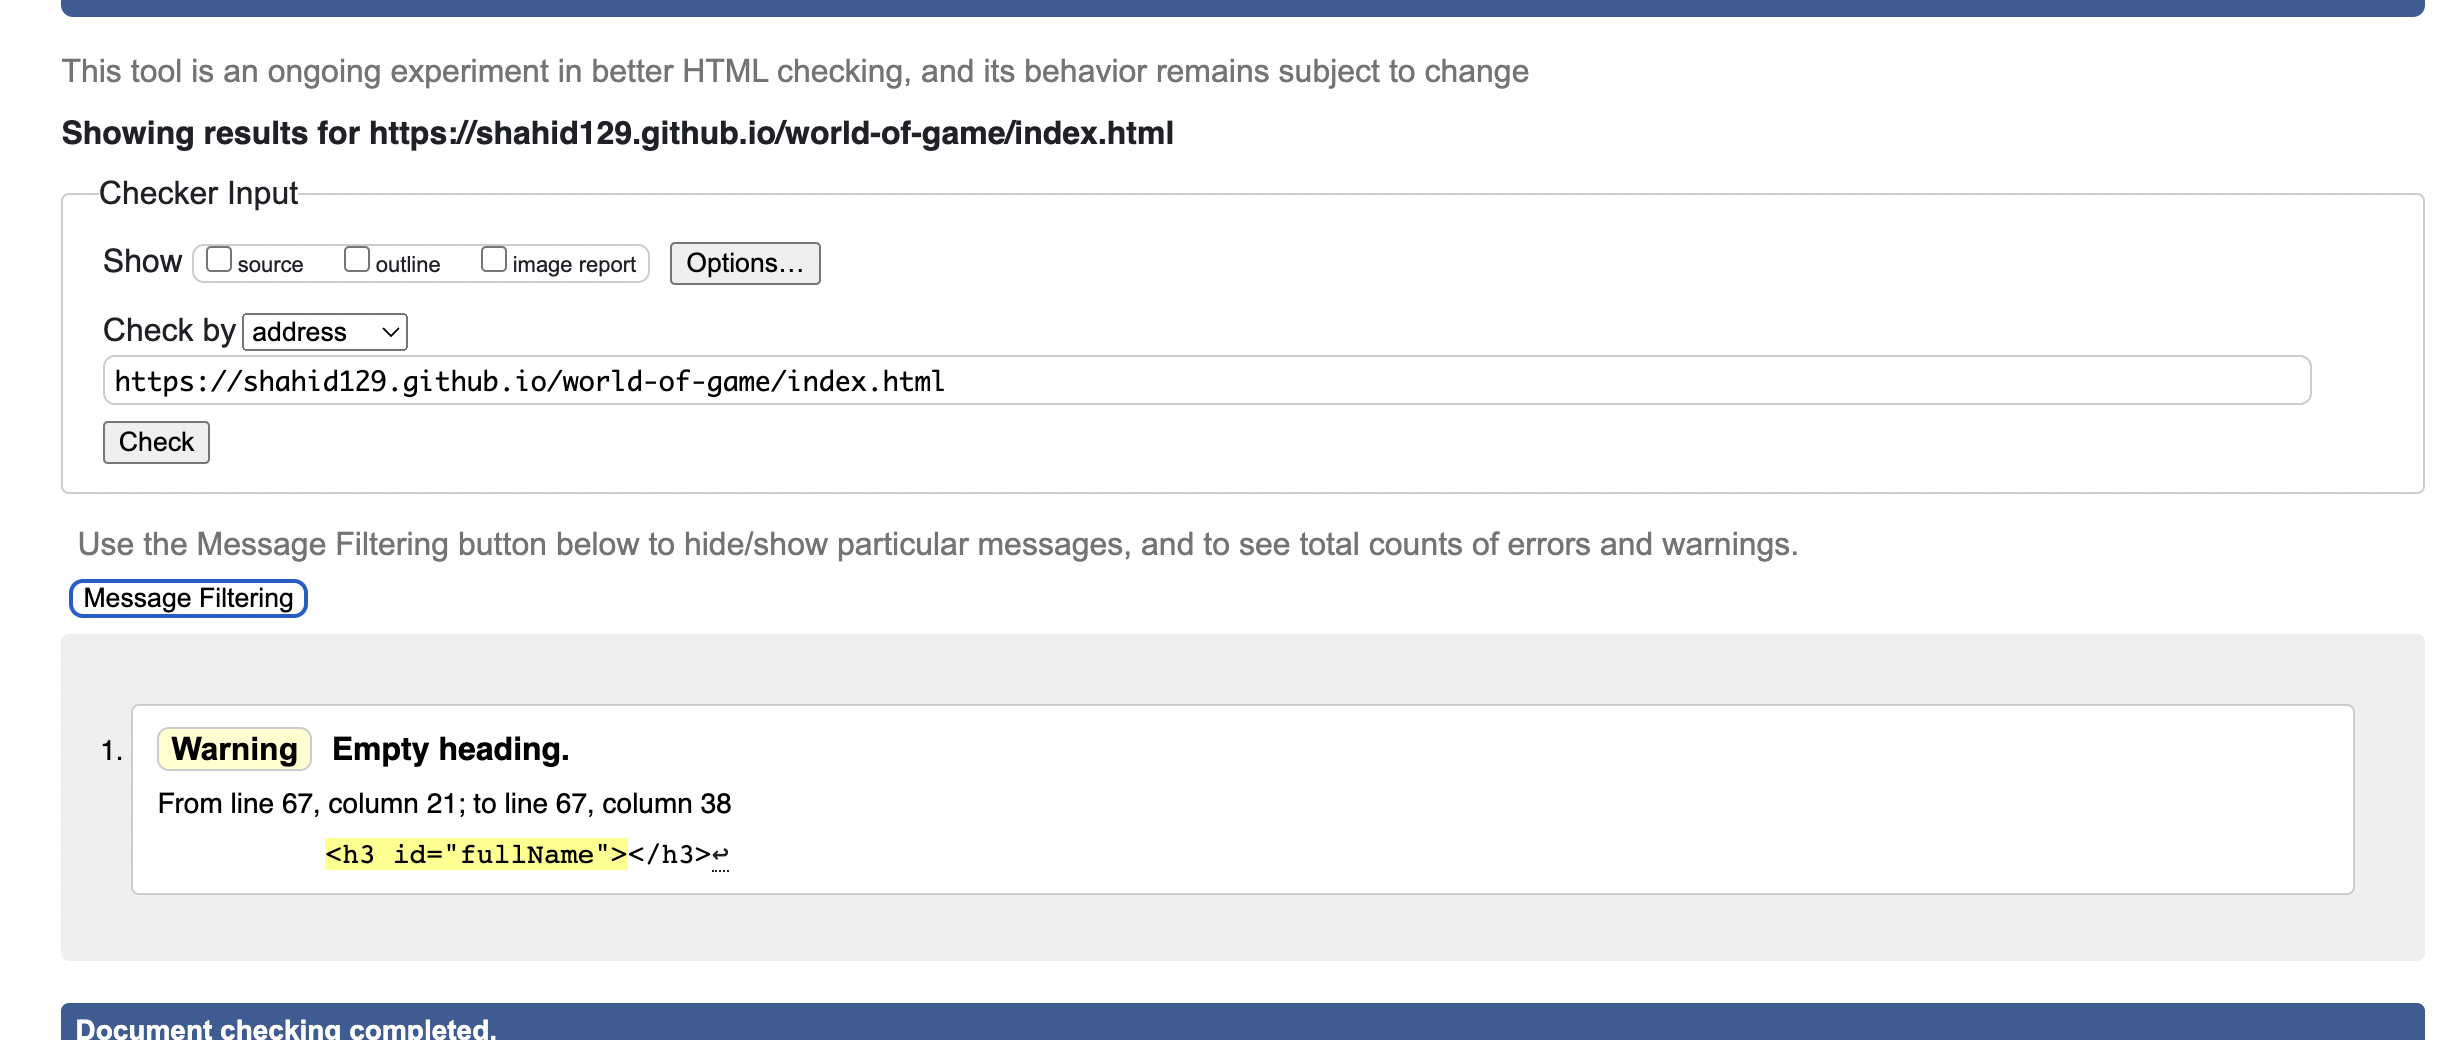
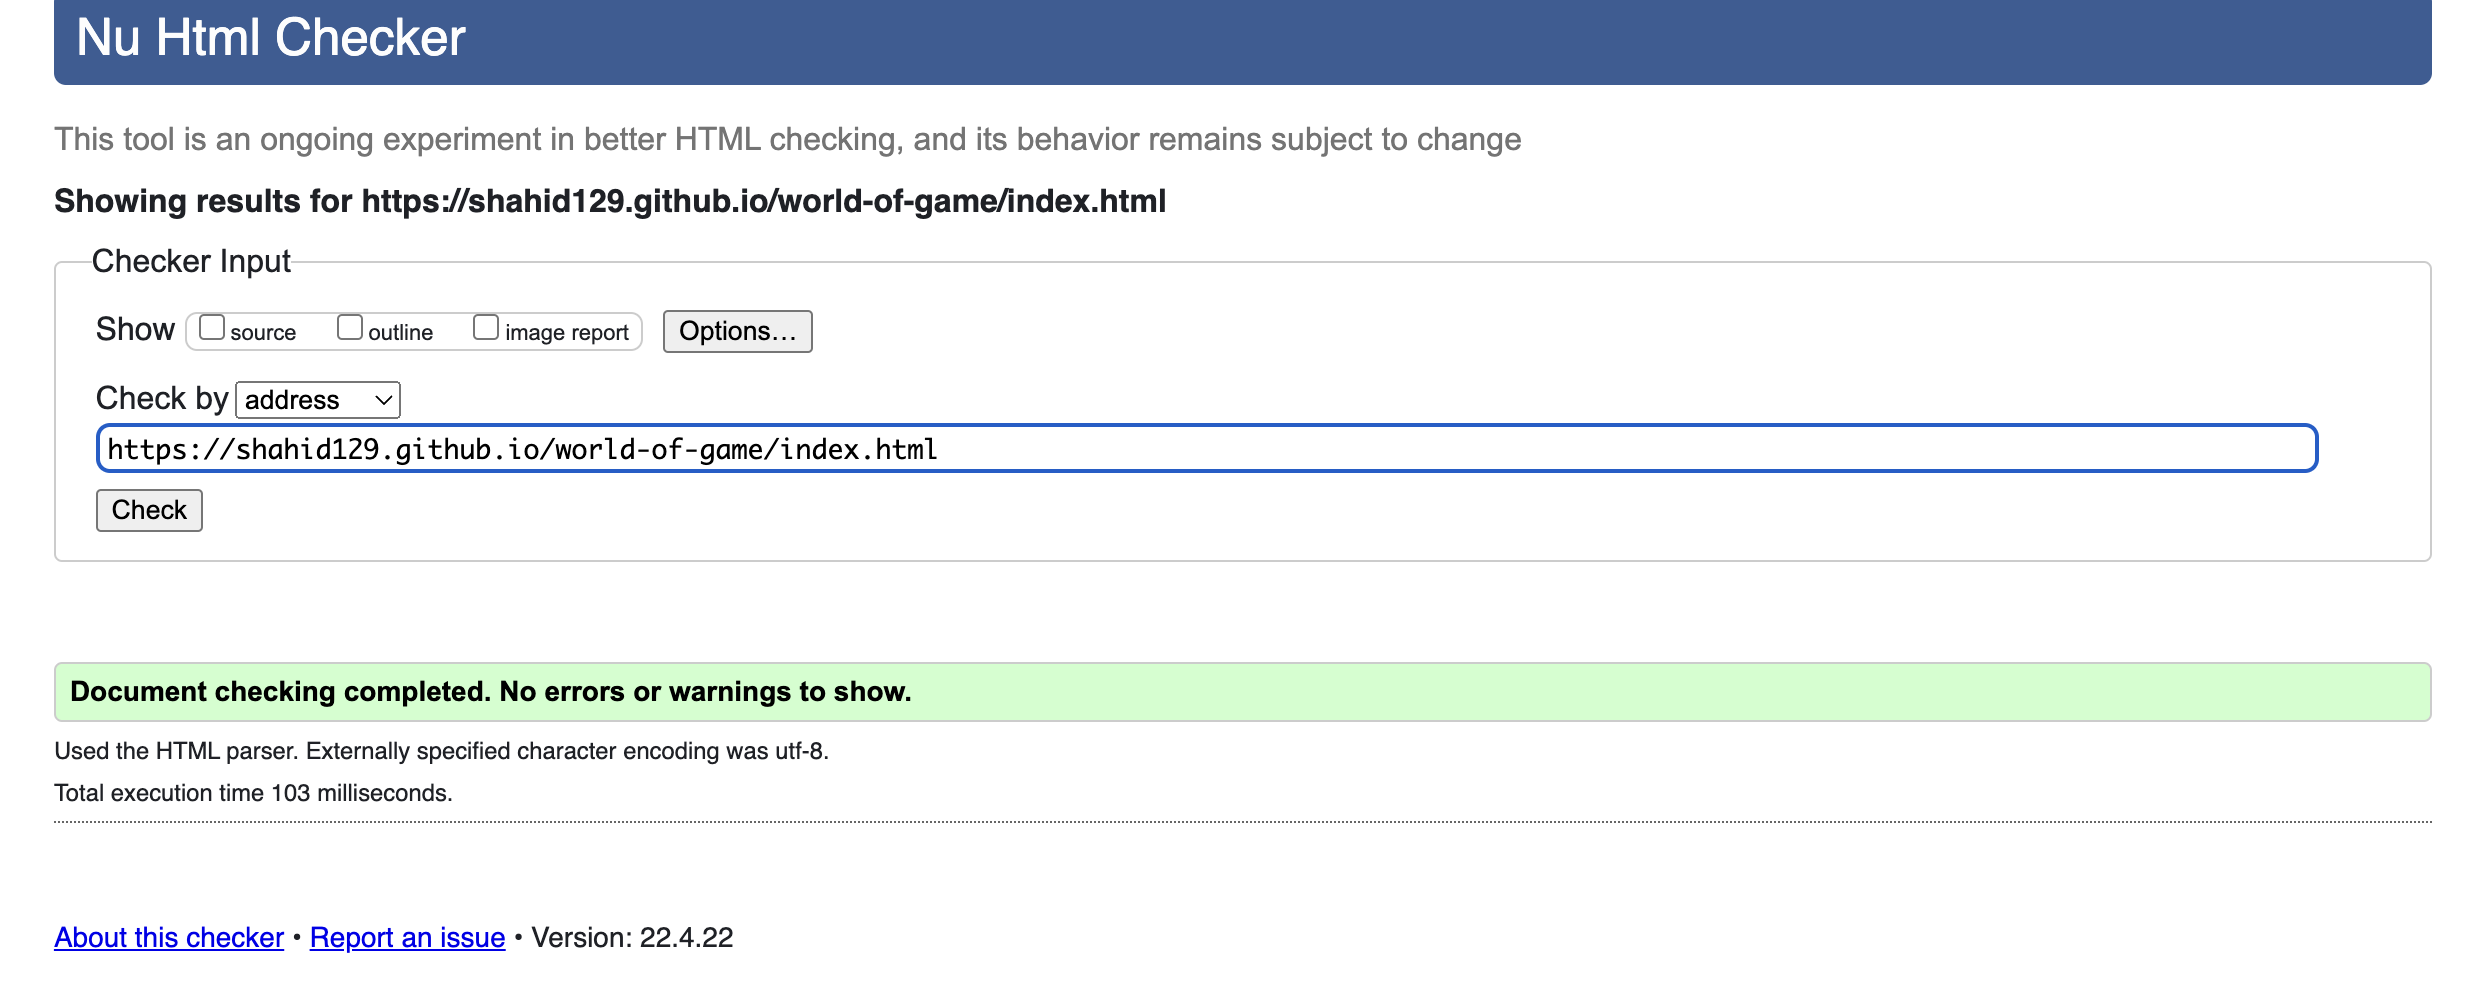
organise testing section in readme.md, remove issues and bugs section

diff --git a/README.md b/README.md
@@ -8,7 +8,6 @@
 - [Design](#design)
 - [Features](#features)
 - [Testing](#testing)
-- [Issues and Bugs](#issues-and-bugs)
 - [Technology](#echnology)
 - [Resources](#resources)
 - [Deployment](#deployment) 
@@ -42,9 +41,9 @@ I tried to keep the design of the game as simple as possible. Keeping a great co
 The colors used are as follows:
 - [Black](/assets/docs/black.png) is used for fonts  
 - [Brown](assets/docs/brown.png) is used for buttons and footer 
--  [Green](assets/docs/green.png) is used for hover on name input
--  [White](assets/docs/white.png) is used for text color on top of brown
--  [White Smoke](assets/docs/white-smoke.png) is used as background on the main page and button background
+- [Green](assets/docs/green.png) is used for hover on name input
+- [White](assets/docs/white.png) is used for text color on top of brown
+- [White Smoke](assets/docs/white-smoke.png) is used as background on the main page and button background
 
 Balsamic wireframe was used to make the basic layout planning of the pages for both laptop and mobile. Images of balsamic wireframes are -
 
@@ -97,21 +96,10 @@ Testing for this website was done by several people in several ways. My wife and
 
 Online testing for html and css was done using the online validator websites and they are -
 
-- W3C Validator [Screenshot](assets/docs/w3c-validator.png)
-- Jigsaw css validator [Screenshot](assets/docs/CSS-Validator%20.png)
-- JS Hint [Screenshot](assets/docs/jshint.png)
+- W3C Validator was used to check the html and no errors were found. [Screenshot](assets/docs/w3c-validator.png)
+- Jigsaw css validator was used to validate css file and no errors were found. [Screenshot](assets/docs/CSS-Validator%20.png)
+- JS Hint validator was used to check the js file and no errors were found. The New JavaScript features (ES6) option was ticked in the Configure menu. [Screenshot](assets/docs/jshint.png)
 - Google Lighthouse [Screenshot](assets/docs/google-lighthouse.png)
-
-## ISSUES AND BUGS
- - One issue was found by W3C Validator, where it says
-   - From line 67, column 21; to line 67, column 38
-   Empty heading.
-
-          <h3 id="fullName"></h3>↩
-
-    Reason: The reason I left the heading empty is because, when the user put his name in name field, this is where the user's name will pop up in the game.
-
-No errors were found in Jigsaw css validator or JS hint.
 
 ### How I encountered problems and solved them
 
